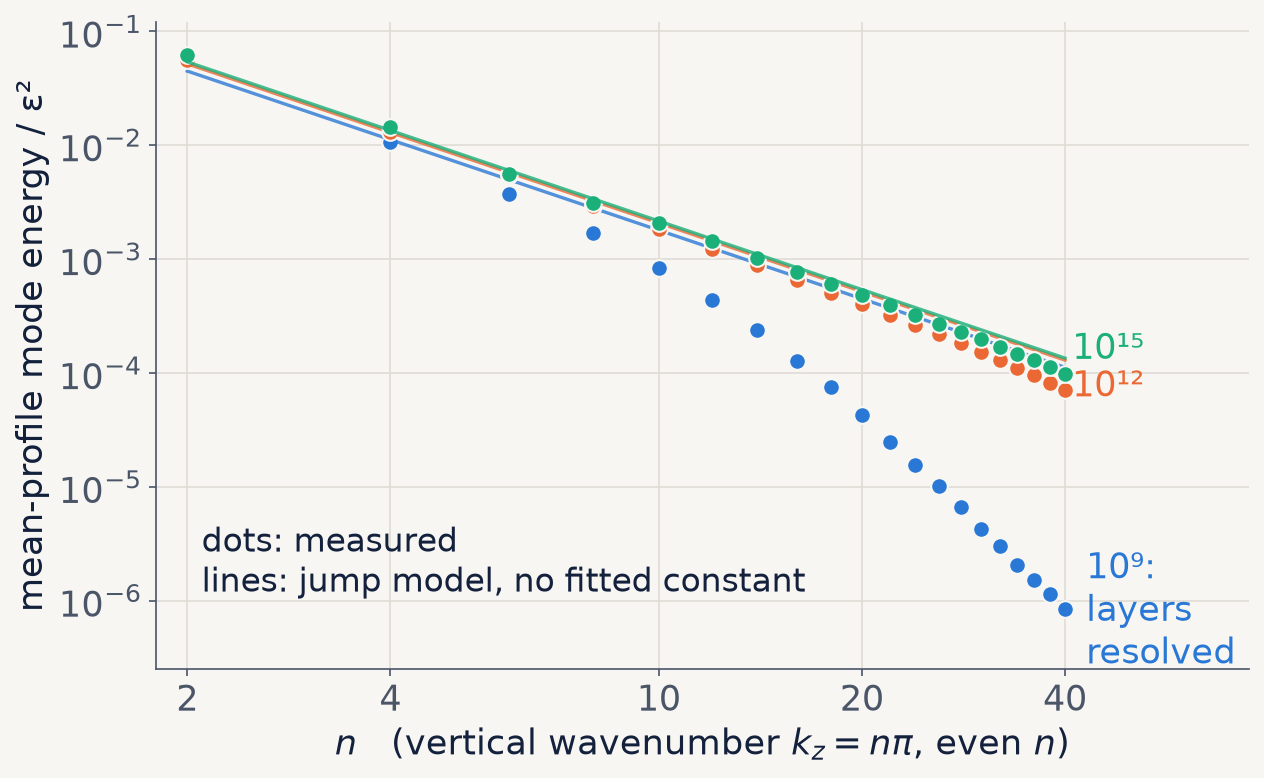
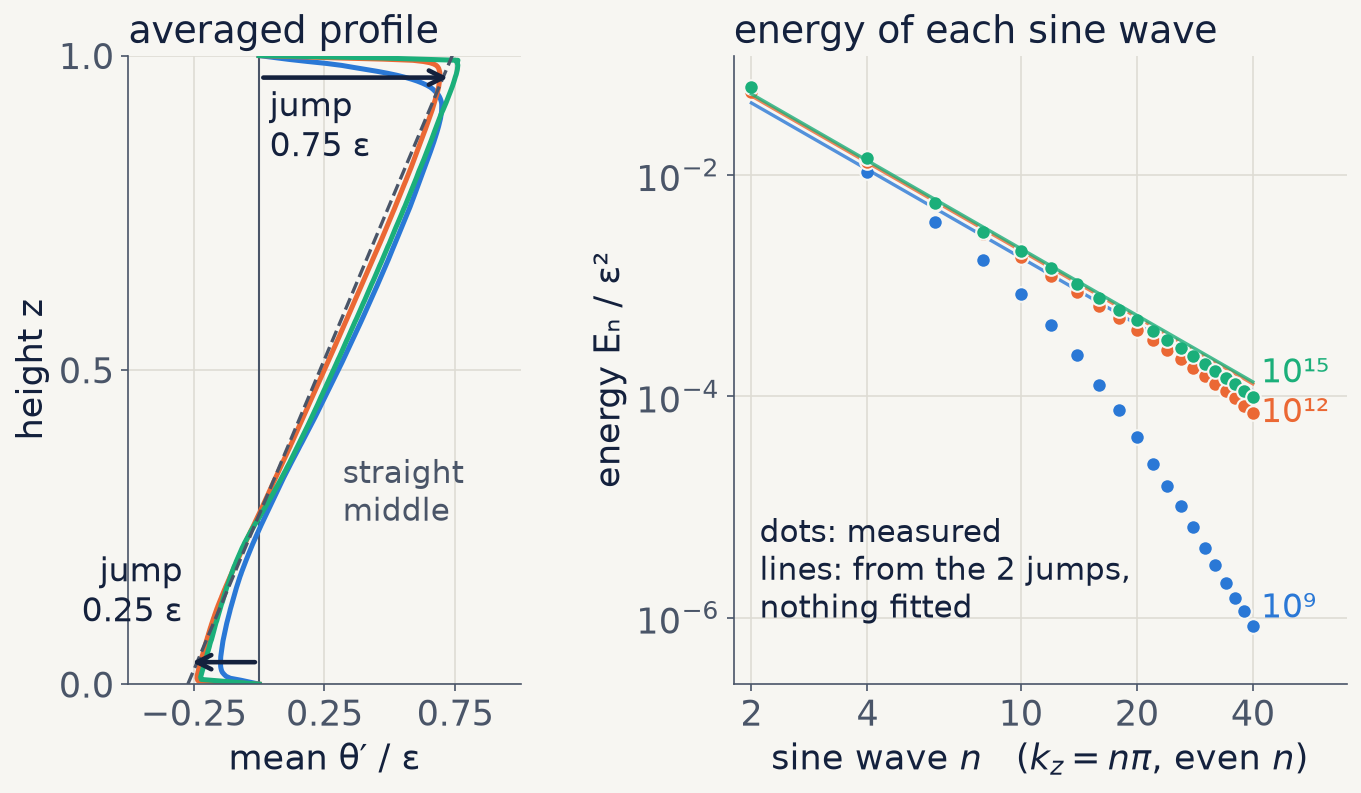
Slide-4 figure: add the averaged temperature profile with the two plate jumps
Claude-Session: https://claude.ai/code/session_01JtE56N5UP9hCyapB7Ratd6

diff --git a/convection/figures/deck_figures.py b/convection/figures/deck_figures.py
@@ -86,23 +86,41 @@ def spec2d():
 
 
 def upper():
-    fig, ax = plt.subplots(figsize=(9.4, 5.6))
+    """Slide 4. Left: the averaged temperature profile (over x and time) with the two plate jumps.
+    Right: energy of its sine modes, measured (dots) against the jump model (lines), nothing fitted."""
+    fig, (a0, ax) = plt.subplots(1, 2, figsize=(9.4, 5.6), gridspec_kw={"width_ratios": [0.8, 1.25]})
+    R = {t: np.load(f"{CACHE}/analysis_2d_{t}.npy", allow_pickle=True).item() for t in TAGS}
+    a0.axvline(0, color=INK2, lw=1)
     for t in TAGS:
-        r = np.load(f"{CACHE}/analysis_2d_{t}.npy", allow_pickle=True).item()
-        Em = r["E_mean"]; n = np.arange(1, len(Em) + 1)
+        p = R[t]["prof_T"]; z = np.linspace(0, 1, len(p))
+        a0.plot(p / EPS + z, z, color=COL[t], lw=2.4)
+    r = R["Ra1e12"]; j0, j1 = r["J0"] / EPS, r["J1"] / EPS
+    a0.plot([j0, j1], [0, 1], color=INK2, lw=1.6, ls="--")
+    a0.annotate("", xy=(j0, 0.035), xytext=(0, 0.035), arrowprops=dict(arrowstyle="->", color=INK, lw=2.2))
+    a0.annotate("", xy=(j1, 0.965), xytext=(0, 0.965), arrowprops=dict(arrowstyle="->", color=INK, lw=2.2))
+    a0.text(j0 - 0.02, 0.10, "jump\n0.25 ε", ha="right", fontsize=16, color=INK)
+    a0.text(0.04, 0.84, "jump\n0.75 ε", ha="left", fontsize=16, color=INK)
+    a0.text(0.32, 0.26, "straight\nmiddle", fontsize=15, color=INK2)
+    a0.set_xlim(-0.5, 1.0); a0.set_ylim(0, 1)
+    a0.set_xticks([-0.25, 0.25, 0.75]); a0.set_xticklabels(["−0.25", "0.25", "0.75"]); a0.set_yticks([0, 0.5, 1])
+    a0.set_xlabel("mean θ′ / ε"); a0.set_ylabel("height z")
+    a0.set_title("averaged profile", loc="left", fontsize=18, color=INK)
+    for t in TAGS:
+        r = R[t]; Em = r["E_mean"]; n = np.arange(1, len(Em) + 1)
         k = (n <= 40) & (n % 2 == 0)
-        ax.loglog(n[k], Em[k] / EPS ** 2, "o", ms=8, color=COL[t], mec=BG, mew=1)
+        ax.loglog(n[k], Em[k] / EPS ** 2, "o", ms=7, color=COL[t], mec=BG, mew=1)
         ax.loglog(n[k], r["E_mean_pred"][k] / EPS ** 2, color=COL[t], lw=1.6, alpha=0.8)
         rat = np.sqrt(Em[1:10:2] / r["E_mean_pred"][1:10:2]).mean()
-        print(f"upper {t}: mean amplitude ratio, even n<=10: {rat:.3f}")
-    ax.text(41, 1.0e-4 * 1.6, "10¹⁵", color=COL["Ra1e15"], fontsize=17, va="center")
-    ax.text(41, 0.75e-4, "10¹²", color=COL["Ra1e12"], fontsize=17, va="center")
-    ax.text(43, 8e-7, "10⁹:\nlayers\nresolved", color=COL["Ra1e9"], fontsize=17, va="center")
-    ax.text(2.1, 1.2e-6, "dots: measured\nlines: jump model, no fitted constant", color=INK, fontsize=16)
-    ax.set_xlim(1.8, 75); ax.set_ylim(2.5e-7, 0.12)
-    log_ticks(ax, xs=[2, 4, 10, 20, 40], ys=[1e-6, 1e-5, 1e-4, 1e-3, 1e-2, 1e-1])
-    ax.set_xlabel(r"$n$   (vertical wavenumber $k_z = n\pi$, even $n$)"); ax.set_ylabel("mean-profile mode energy / ε²")
-    fig.savefig(OUT + "deck_upper.png", dpi=150); plt.close(fig)
+        print(f"upper {t}: mean amplitude ratio, even n<=10: {rat:.3f}; J0/eps {r['J0'] / EPS:.3f}, J1/eps {r['J1'] / EPS:.3f}")
+    ax.text(42, 1.6e-4, "10¹⁵", color=COL["Ra1e15"], fontsize=16, va="center")
+    ax.text(42, 0.7e-4, "10¹²", color=COL["Ra1e12"], fontsize=16, va="center")
+    ax.text(42, 1.2e-6, "10⁹", color=COL["Ra1e9"], fontsize=16, va="center")
+    ax.text(2.1, 1.0e-6, "dots: measured\nlines: from the 2 jumps,\nnothing fitted", color=INK, fontsize=15)
+    ax.set_xlim(1.8, 70); ax.set_ylim(2.5e-7, 0.12)
+    log_ticks(ax, xs=[2, 4, 10, 20, 40], ys=[1e-6, 1e-4, 1e-2])
+    ax.set_xlabel(r"sine wave $n$   ($k_z = n\pi$, even $n$)"); ax.set_ylabel("energy Eₙ / ε²")
+    ax.set_title("energy of each sine wave", loc="left", fontsize=18, color=INK)
+    fig.tight_layout(w_pad=2.0); fig.savefig(OUT + "deck_upper.png", dpi=150); plt.close(fig)
 
 
 def sound():
